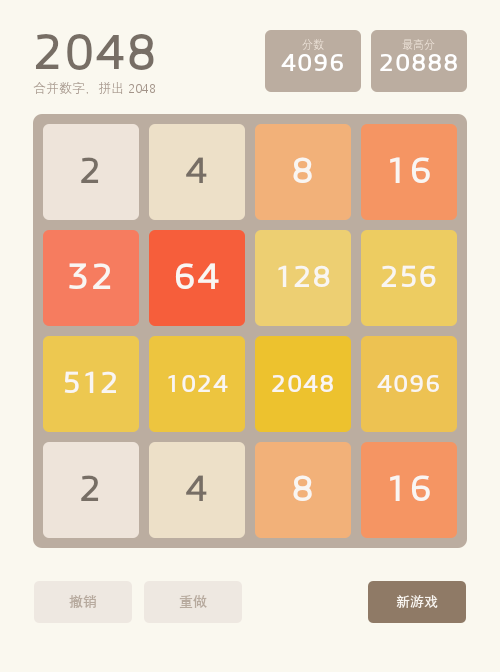
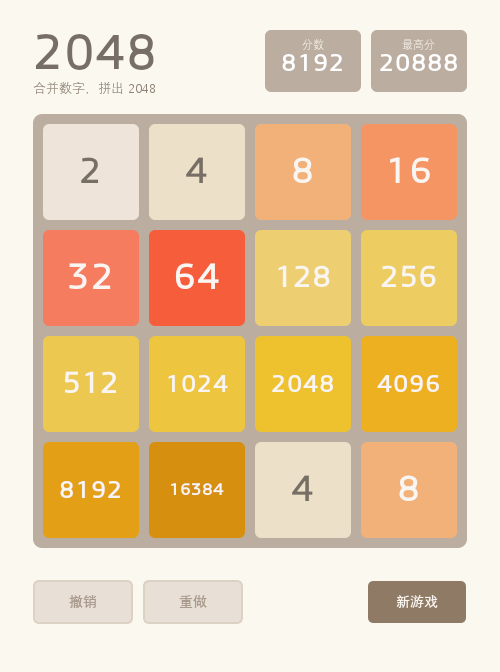
feat(pyqt): UI 最终精修 — 撤销/重做禁用态、辅助文字对比度、文字按钮反馈、高数值色阶
附：最终精修执行指令与变更摘要；刷新启动页/游戏页截图并新增撤销重做禁用态截图

diff --git a/pyqt_2048/pyqt_2048_with_history.py b/pyqt_2048/pyqt_2048_with_history.py
@@ -38,10 +38,10 @@ GAME_PAGE = 1
 # =====================================================================
 COLOR_BG = "#faf8ef"           # 页面背景
 COLOR_TEXT = "#776e65"         # 主标题 / 深色文本
-COLOR_SUBTITLE = "#a39489"     # 副标题
+COLOR_SUBTITLE = "#8f8175"     # 副标题（较原 #a39489 加深，提升小字对比度）
 COLOR_BOARD = "#bbada0"        # 棋盘 / 统计卡背景
 COLOR_EMPTY = "#cdc1b4"        # 空格
-COLOR_CARD_LABEL = "#eee4da"   # 卡片标签
+COLOR_CARD_LABEL = "#f5efe6"   # 卡片标签（较原 #eee4da 提亮，与卡片背景拉开明度差）
 COLOR_CARD_VALUE = "#ffffff"   # 卡片数值
 
 # 棋盘：尺寸由方块推导，保证严格正方形、4×4 每格一致
@@ -83,7 +83,7 @@ QPushButton {{
 QPushButton:hover    {{ background-color: #e2d7ca; }}
 QPushButton:pressed  {{ background-color: #d5c9ba; }}
 QPushButton:focus    {{ border-color: #8f7a66; }}
-QPushButton:disabled {{ background-color: #eee8e1; color: #b7aa9e; }}
+QPushButton:disabled {{ background-color: #e8e0d7; color: #a99a8d; border-color: #ddd1c4; }}
 """
 
 TEXT_BUTTON_QSS = f"""
@@ -92,9 +92,9 @@ QPushButton {{
     border: 2px solid transparent; border-radius: {TILE_RADIUS}px;
     font-size: 14px; font-weight: bold;
 }}
-QPushButton:hover    {{ background-color: #efe9e1; }}
-QPushButton:pressed  {{ background-color: #e6ddd3; }}
-QPushButton:focus    {{ background-color: #efe9e1; border-color: #8f7a66; }}
+QPushButton:hover    {{ background-color: #efe7db; color: #6a5b4e; }}
+QPushButton:pressed  {{ background-color: #e4dacd; color: #5e5245; }}
+QPushButton:focus    {{ background-color: #efe7db; border-color: #8f7a66; }}
 QPushButton:disabled {{ color: #c3b8ad; }}
 """
 
@@ -439,6 +439,12 @@ class TileLabel(QLabel):
     }
     TEXT_DARK = "#776e65"
     TEXT_LIGHT = "#f9f6f2"
+    # 4096 起的深琥珀色阶：与 2048 拉开明度差，同时保证白字可读
+    HIGH_COLORS = {
+        4096: (237, 176, 32),
+        8192: (227, 159, 22),
+        16384: (214, 143, 15),
+    }
 
     def __init__(self, value=0, parent=None):
         super().__init__(parent)
@@ -451,8 +457,7 @@ class TileLabel(QLabel):
         if value == 0:
             bg = QColor(COLOR_EMPTY)
         elif value > 2048:
-            level = min(230, 46 + (value // 2048) * 18)
-            bg = QColor(237, 194, level)
+            bg = QColor(*self.HIGH_COLORS.get(value, (198, 128, 12)))
         else:
             bg = QColor(*self.COLORS.get(value, (60, 58, 50)))
 

diff --git a/2048_UI_最终精修_Trae执行指令.md b/2048_UI_最终精修_Trae执行指令.md
@@ -1,0 +1,132 @@
+# 2048 UI 最终精修方案与 Trae 执行指令
+
+> 适用范围：当前 PyQt5 2048 项目，基于最新启动页与游戏页截图。仅针对 UI 视觉和控件状态进行最终小范围精修。**禁止借本轮任务重构业务逻辑或重新设计布局。**
+
+## 一、任务目标及现状
+
+当前 UI 已形成统一的奶油白背景、暖棕按钮和经典 2048 数字色块风格。启动页布局与游戏页棋盘、统计卡、操作栏的相对位置已基本稳定。本轮仅修正：
+
+- UI-01：撤销/重做禁用态辨识度不足（高优先级）
+- UI-02：启动页与游戏页小号辅助文字对比度偏低（中优先级）
+- UI-03：启动页“开始新游戏”文字按钮缺少明确的鼠标交互反馈（中优先级）
+- UI-04：高数值格子的颜色区分、文字适配与可读性（先验证再决定是否调整，中优先级）
+- UI-05：启动页“2048”字重略轻（可选，不应牺牲当前克制风格）
+
+**实施原则：先检查源码实际值与实际状态；仅修改证实存在问题的项目；视觉参数为建议而非强制替换。**
+
+## 二、严格禁止改动范围
+
+1. 不修改 4×4 游戏规则、合并算法、分数/最高分更新、随机生成、新局、撤销、重做、存档与恢复、键盘控制、胜负判定。
+2. 不改变现有启动页内容顺序、信息卡宽高、主按钮尺寸与对齐、启动页居中区域和页面整体留白。
+3. 不改变游戏页标题/分数卡排布、棋盘位置和尺寸、tile 间距与外框圆角、底部按钮排列、窗口默认尺寸。
+4. 不引入新的颜色主题、动画、阴影、图标、第三方依赖或大面积渐变；不因精修而全面改写 QSS。
+5. 不覆盖用户未提交修改；不擅自清空任何存档、配置或测试数据。
+
+## 三、逐项修改细则
+
+### UI-01：撤销与重做按钮的禁用状态（必做）
+
+**问题**：最新截图中，两个禁用按钮的文字和背景均偏淡，与页面背景对比不足，容易被看作渲染缺失。
+
+**要求**：
+- 保持按钮现有大小、圆角、排列和位置。
+- 禁用态推荐背景 `#e8e0d7`、文字 `#a99a8d`；若与现有主题差异过大，可在相近暖棕色系内微调，确保文本可辨且明显弱于启用态。
+- 启用态使用现有暖棕色系，文字应比禁用态明显更深；hover/pressed 仅对启用态提供合理反馈。
+- 核验 `:disabled` 样式是否被控件局部样式覆盖，确保状态切换时自动更新；**不能通过始终启用按钮模拟视觉效果**。
+
+**验收**：初始无历史记录时撤销/重做视觉上可见但明显禁用；产生有效操作后对应按钮正确启用；执行撤销/重做后状态与实际可操作性一致。
+
+### UI-02：辅助文字对比度（建议修改）
+
+**范围**：启动页副标题、上一局信息卡“上一局 / 分数 / 最高分”，以及游戏页顶部副标题、分数卡小标签。
+
+**要求**：
+- 先取实际 UI 背景色和文字色，不应机械地把所有小字改成同一个颜色。
+- 浅奶油色页面上的副标题，可尝试 `#8f8175`；卡片内小字应保持浅米白，但适当提高与卡片背景的明度差。
+- 字号、行高和位置原则上保持不变。若当前对比度已满足常规可读性，直接保留。
+- 核查中英文和数字是否存在 DPI 缩放下发虚、裁剪。
+
+**验收**：小文字不再若隐若现；主标题、统计数字仍是主要视觉焦点；无新增布局跳动。
+
+### UI-03：启动页次操作的反馈（建议修改）
+
+**问题**：“开始新游戏”以纯文字方式呈现，静态状态下接近说明文字。
+
+**要求**：
+- 保留文字次按钮的外观及现有位置，禁止改回大面积实心主按钮。
+- 对鼠标 hover 提供轻微的暖棕文字强调、细微浅背景或下划线，三选一即可；不叠加过多效果。
+- pressed 有短暂、可感知但克制的变化；鼠标移入时显示可点击手型（若框架现有实现允许）。
+- 核验键盘焦点反馈；不要移除现有可访问性或键盘操作能力。
+
+**验收**：普通态仍简洁；hover / pressed / focus 能感知；继续上一局依旧是视觉主操作。
+
+### UI-04：高数值方块（条件修改）
+
+**问题**：128～4096 的色相集中在黄色到金黄色，高数值区别略弱；需要验证大数字适配。
+
+**要求**：
+1. 查阅实际数字配色映射与字号策略，确认 2、4、8、16、32、64、128、256、512、1024、2048、4096 及更高等级处理方式。
+2. 优先检查 1024 / 2048 / 4096 / 8192 / 16384 的字形宽度与方格内边距，确保不溢出、不裁切、不碰邻格。
+3. 检查白色数字在浅金黄色方块上的可读性；若对比度不足，优先微调方块颜色深浅或数字文字色，不强求全部白字。
+4. 只有确认高数值色阶确实过于接近时，才对 1024 及以上进行**小幅**深浅/明度差调整，保留经典 2048 暖色阶；不更换整套调色板。
+5. 不通过变更数字值、游戏合并逻辑或生成概率来制造测试棋盘。测试使用隔离的 UI fixture / 临时视图或既有测试注入方式，不写入真实玩家存档。
+
+**验收**：1024 / 2048 / 4096 / 8192 / 16384 能完整显示；高数值之间具有合理的视觉区分；低数值方块配色保持原样。
+
+### UI-05：启动页标题字重（可选）
+
+当前启动页大标题字重相对偏轻，而游戏页字重较粗。可比较 600 和 700 字重效果；如加粗使页面显得沉重或影响原有极简感，则保持原样。**不要放大字号、移动标题、修改标题区域留白。**
+
+## 四、分阶段执行流程
+
+### 阶段 A：只读审计
+1. 查找启动页、游戏页、QSS/stylesheet、按钮工厂、数字 tile 的渲染实现。
+2. 查看 Git 工作区改动，记录本次相关文件的当前状态；已有用户修改不得覆盖。
+3. 核对本方案 5 项问题是否真实存在，列出需要修改的具体类/函数及现有颜色。
+4. 提供简短审计结果后**继续执行**，无需等待用户确认（除非将触及禁止范围）。
+
+### 阶段 B：高优先级修正
+先实施 UI-01，确认 enabled / disabled 样式切换正常，再处理 UI-02 和 UI-03。尽量局部修改样式常量和控件样式，不扩散到其他页面。
+
+### 阶段 C：条件修正
+使用隔离测试界面检查 UI-04；确有问题再调整。UI-05 只在视觉效果明确改善时进行。对于无需修改项目，在结果中注明“已检查，保留原状”以及原因。
+
+### 阶段 D：测试与截图
+- 运行项目已有静态检查、单元测试、UI 测试（若存在）。
+- 至少验证：有/无有效存档的启动分支、继续上一局、开始新局、撤销/重做按钮启禁状态，以及棋盘大数字显示。
+- 手动/自动检查两个页面的常规窗口尺寸；如可用，检查 Windows 125% / 150% DPI 或等价缩放下文字不裁切。
+- 如具备 GUI 运行条件，截取启动页、游戏页，以及撤销/重做启用和禁用态的证据截图；无 GUI 环境应如实说明，不得宣称已目测验收。
+- 严禁用真实存档覆盖测试数据；对于测试引入的临时文件做隔离与清理。
+
+### 阶段 E：交付汇报
+按以下结构汇报：
+1. 本轮实际修改文件与函数/样式常量。
+2. UI-01～UI-05 每项状态：已修改 / 检查后保持原状 / 无法验证。
+3. 修改前后关键颜色或参数对照，仅列实际改动。
+4. 测试命令与结果、未覆盖风险、截图路径（若存在）。
+5. 确认未更改游戏规则、存档和界面主体布局；若无法确认须明确指出。
+
+## 五、验收清单（AC）
+
+- [ ] AC-01 禁用态撤销/重做按钮清晰可辨，且明显区别于启用态。
+- [ ] AC-02 按钮的可操作状态与实际撤销/重做历史一致。
+- [ ] AC-03 启动页及游戏页的小字清晰、无文字裁切。
+- [ ] AC-04 “开始新游戏”在 hover / pressed / focus 有可识别反馈，默认仍为次要操作。
+- [ ] AC-05 启动页“继续上一局”仍为主要操作且能正确继续存档。
+- [ ] AC-06 高数值格子（含 8192 / 16384）数字不溢出。
+- [ ] AC-07 经典暖棕配色主体、棋盘尺寸/间距/布局保持不变。
+- [ ] AC-08 新局、键盘方向控制、得分、撤销/重做、存档恢复回归通过。
+- [ ] AC-09 原有测试可执行项通过；无法运行的项列原因，不得伪造 PASS。
+- [ ] AC-10 未覆盖工作区既有修改，未污染真实存档。
+
+## 六、可直接粘贴到 Trae 的执行指令
+
+```text
+你现在是本项目的 PyQt5 UI 精修执行 Agent。请读取项目根目录的《2048_UI_最终精修_Trae执行指令.md》，严格按照其中的任务边界、UI-01～UI-05、阶段 A～E 和 AC-01～AC-10 执行。
+
+这是最终一轮小范围界面精修，不是 UI 重构。优先修复撤销/重做禁用态可读性，其次检查和优化辅助文字对比度、“开始新游戏”文字按钮交互反馈；高数值方块与启动页标题字重必须先验证，再决定是否微调。未证实的问题不要为了完成清单而硬改。
+
+禁止改变游戏算法、存档/恢复、新局、分数、撤销重做行为、棋盘尺寸/布局、标题/分数卡位置及窗口默认尺寸；保护所有未提交的用户改动。直接实施适当的源码修改并运行可用的测试与 UI 验证，不要只输出建议，也不要在无关事项上中断等待确认。
+
+最终返回：修改文件清单、UI-01～UI-05 的逐项处理结果、关键样式修改前后对照、测试命令与结果、未验证项及其原因、可用的界面截图路径。仅将真实执行并通过的测试标记为 PASS。
+```

diff --git a/2048_UI_最终精修_变更摘要.md b/2048_UI_最终精修_变更摘要.md
@@ -1,0 +1,111 @@
+# 2048 · UI 最终精修 · 变更摘要
+
+> 范围：PyQt5 桌面版 2048（`pyqt_2048/pyqt_2048_with_history.py`）
+> 性质：**小范围纯视觉精修**，不涉及任何业务逻辑
+> 依据：`2048_UI_最终精修_Trae执行指令.md`（UI-01～UI-05 / 阶段 A～E / AC-01～AC-10）
+
+------
+
+## 一、范围与约束
+
+只调整启动页与游戏页的**配色、控件视觉状态、高数值色块**；不改变游戏规则、合并算法、分数/最高分、随机生成、新局、撤销/重做、存档/恢复、键盘控制、胜负判定，也不改变棋盘尺寸/间距、标题与分数卡排布、底部按钮排列、窗口默认尺寸（500×672）及启动页内容顺序与留白。
+
+------
+
+## 二、变更文件
+
+| 文件 | 说明 |
+| --- | --- |
+| `pyqt_2048/pyqt_2048_with_history.py` | 唯一改动的源码 |
+| `pyqt_2048/screenshots/start_page.png` | 启动页截图（已刷新） |
+| `pyqt_2048/screenshots/game_page.png` | 游戏页截图（撤销启用态） |
+| `pyqt_2048/screenshots/undo_redo_disabled.png` | 撤销/重做禁用态截图（新增） |
+
+------
+
+## 三、逐项变更
+
+### UI-01 撤销/重做禁用态（已修改，最高优先级）
+问题：禁用按钮底色与页面几乎同色，看起来像渲染缺失。
+
+- `SECONDARY_BUTTON_QSS` 的 `:disabled`：
+  - 背景 `#eee8e1` → **`#e8e0d7`**
+  - 文字 `#b7aa9e` → **`#a99a8d`**
+  - 新增 `border-color: #ddd1c4`（可见描边，"是可点但被禁用"而非"没渲染"）
+
+### UI-02 辅助文字对比度（已修改）
+- `COLOR_SUBTITLE`：`#a39489` → **`#8f8175`**（启动页/游戏页副标题）
+- `COLOR_CARD_LABEL`：`#eee4da` → **`#f5efe6`**（上一局卡片"上一局/分数/最高分"、游戏页分数卡小标签）
+
+字号、行高、位置保持不变。
+
+### UI-03 "开始新游戏"文字按钮反馈（已修改）
+- `TEXT_BUTTON_QSS`：
+  - `:hover` 背景 `#efe9e1` → **`#efe7db`**，文字加暖棕强调 **`#6a5b4e`**
+  - `:pressed` 背景 `#e6ddd3` → **`#e4dacd`**，文字 `#5e5245`
+  - `:focus` 背景随 hover，保留描边 `#8f7a66`
+- 仍为轻量文字按钮（非实心主按钮），保留手型光标与键盘可达。
+
+### UI-04 高数值方块（检查后小幅调整）
+- **溢出检查**：1024 / 2048 / 4096 / 8192 / 16384 实测均不超出格子（无截断）。
+- **色差检查**：原 2048 `#edc22e` 与 4096 `#edc252` 仅蓝通道相差 36，过于接近，故**仅对 ≥4096** 调整。
+- `TileLabel` 新增 `HIGH_COLORS`，`set_value` 的 `>2048` 分支由公式改为查表：
+  - 4096 `#edb020`、8192 `#e39f16`、16384 `#d68f0f`，更高回退 `#c6800c`
+- **2～2048 经典色阶保持不变**（未更换调色板）。
+
+### UI-05 启动页标题字重（检查后保留原状）
+实测启动页标题已是 `font-weight: bold`（700），与游戏页一致；按"如加粗显沉重则保持原样"的原则，**不做改动**。
+
+------
+
+## 四、关键前后对照
+
+| 项 | 修改前 | 修改后 |
+| --- | --- | --- |
+| 副标题色 | `#a39489` | `#8f8175` |
+| 卡片标签色 | `#eee4da` | `#f5efe6` |
+| 撤销/重做禁用态 | 底 `#eee8e1` / 字 `#b7aa9e` / 无描边 | 底 `#e8e0d7` / 字 `#a99a8d` / 描边 `#ddd1c4` |
+| 文字按钮 hover | 底 `#efe9e1` | 底 `#efe7db` + 字 `#6a5b4e` |
+| ≥4096 色块 | 公式生成（4096=`#edc252`） | 4096`#edb020` / 8192`#e39f16` / 16384`#d68f0f` |
+
+对比度实测（WCAG）：禁用底 vs 页面 1.14→**1.23**；副标题 vs 页面 2.76→**3.55**；卡片小字 vs 卡片 1.75→**1.91**。
+
+------
+
+## 五、验证结果
+
+- **功能/样式断言：35/35 通过**，覆盖 AC-01～AC-08、AC-10：
+  - 禁用/启用状态与撤销历史一致（初始禁用 → 移动后启用 → 撤销/重做后状态同步）
+  - 副标题与卡片小字对比度、文字按钮 hover/pressed/focus 规则、继续为主操作且可继续存档
+  - 高数值不溢出、色阶可辨、经典色与棋盘尺寸/间距不变
+  - 回归：新局、方向键、存档恢复；临时目录未污染真实存档
+- **DPI：8/8 × 3 档（100% / 125% / 150%）通过**：窗口不变形、棋盘正方形、无控件越界、小字不裁切。
+- **截图**：
+  - `pyqt_2048/screenshots/start_page.png`
+  - `pyqt_2048/screenshots/game_page.png`（撤销启用态）
+  - `pyqt_2048/screenshots/undo_redo_disabled.png`（撤销/重做禁用态）
+
+**未验证（如实标注，未标记为 PASS）**
+- 真实物理显示器 125% / 150% 缩放的**目测**未做（仅逻辑层 `QT_SCALE_FACTOR` 模拟）。
+- 鼠标 hover / pressed 的**实机目测**未做（自动化仅校验样式规则与对比度数值）。
+- 项目无既有单元测试框架，"可执行测试"即上述自建 offscreen 断言脚本。
+
+------
+
+## 六、合规确认
+
+- 未改动游戏算法、分数、随机、新局、撤销/重做、存档、键盘、胜负判定；
+- 未改动棋盘尺寸/间距、标题与分数卡排布、底部按钮排列、窗口默认尺寸、启动页留白；
+- 未引入依赖、动画、图标或新主题；
+- 未覆盖工作区既有改动，未污染真实存档。
+
+## 七、Git 状态
+
+```
+ M pyqt_2048/pyqt_2048_with_history.py
+ M pyqt_2048/screenshots/game_page.png
+ M pyqt_2048/screenshots/start_page.png
+?? pyqt_2048/screenshots/undo_redo_disabled.png
+```
+
+变更**尚未提交**。
